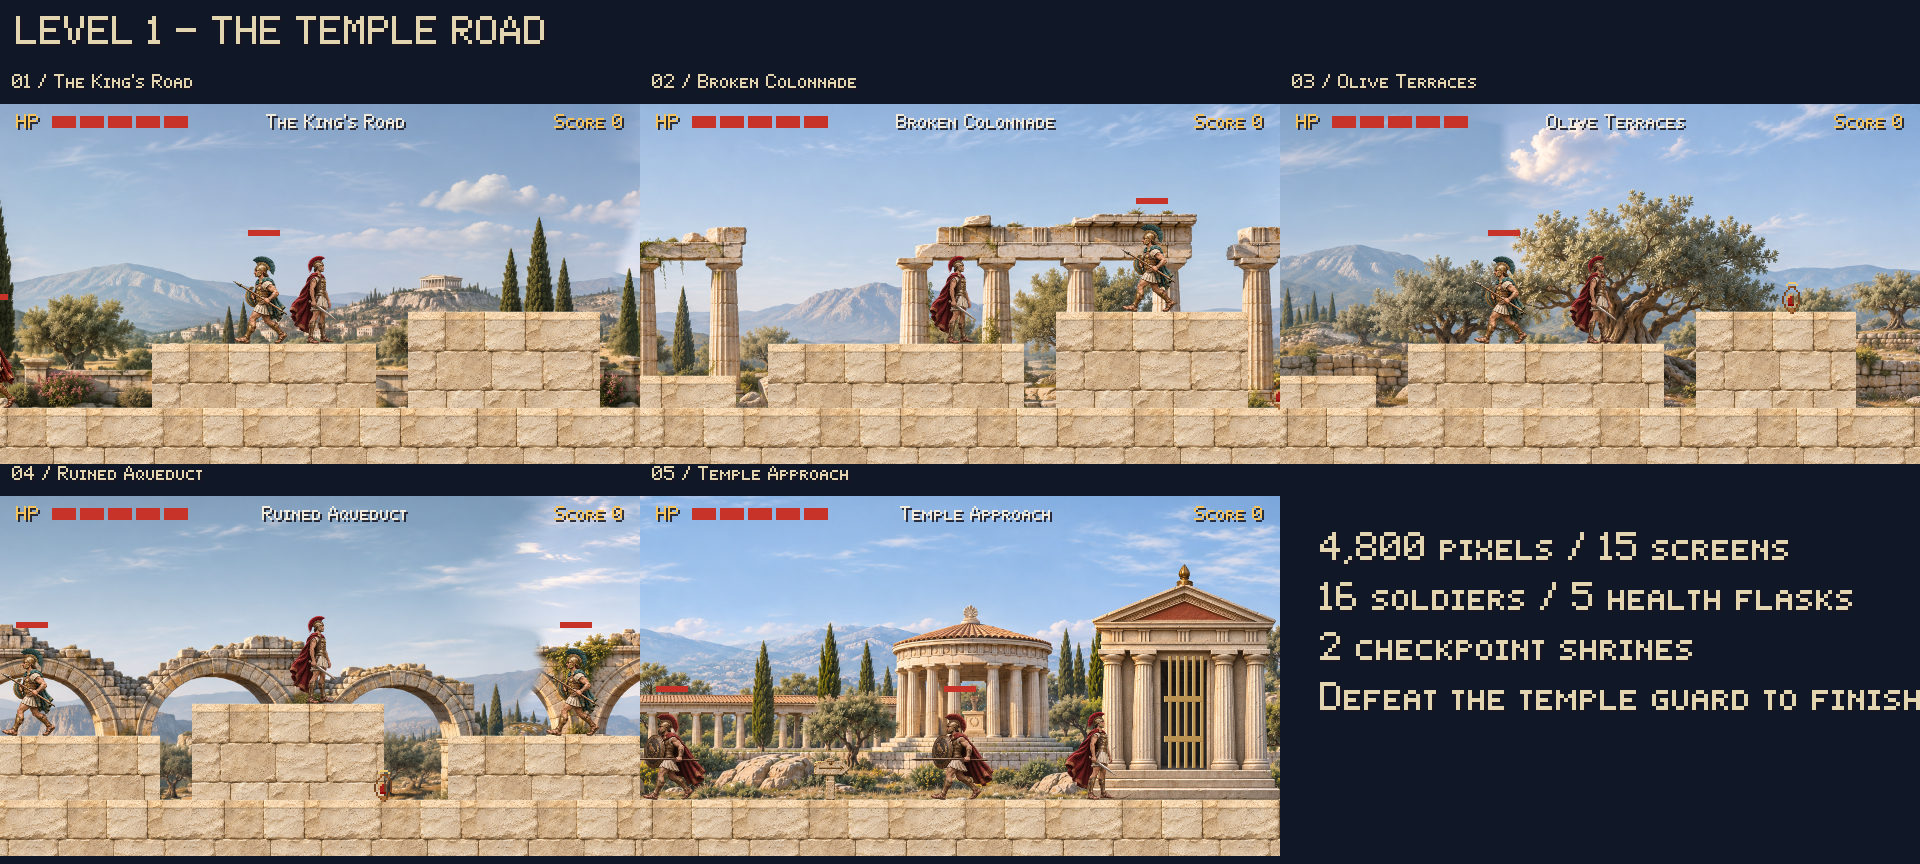
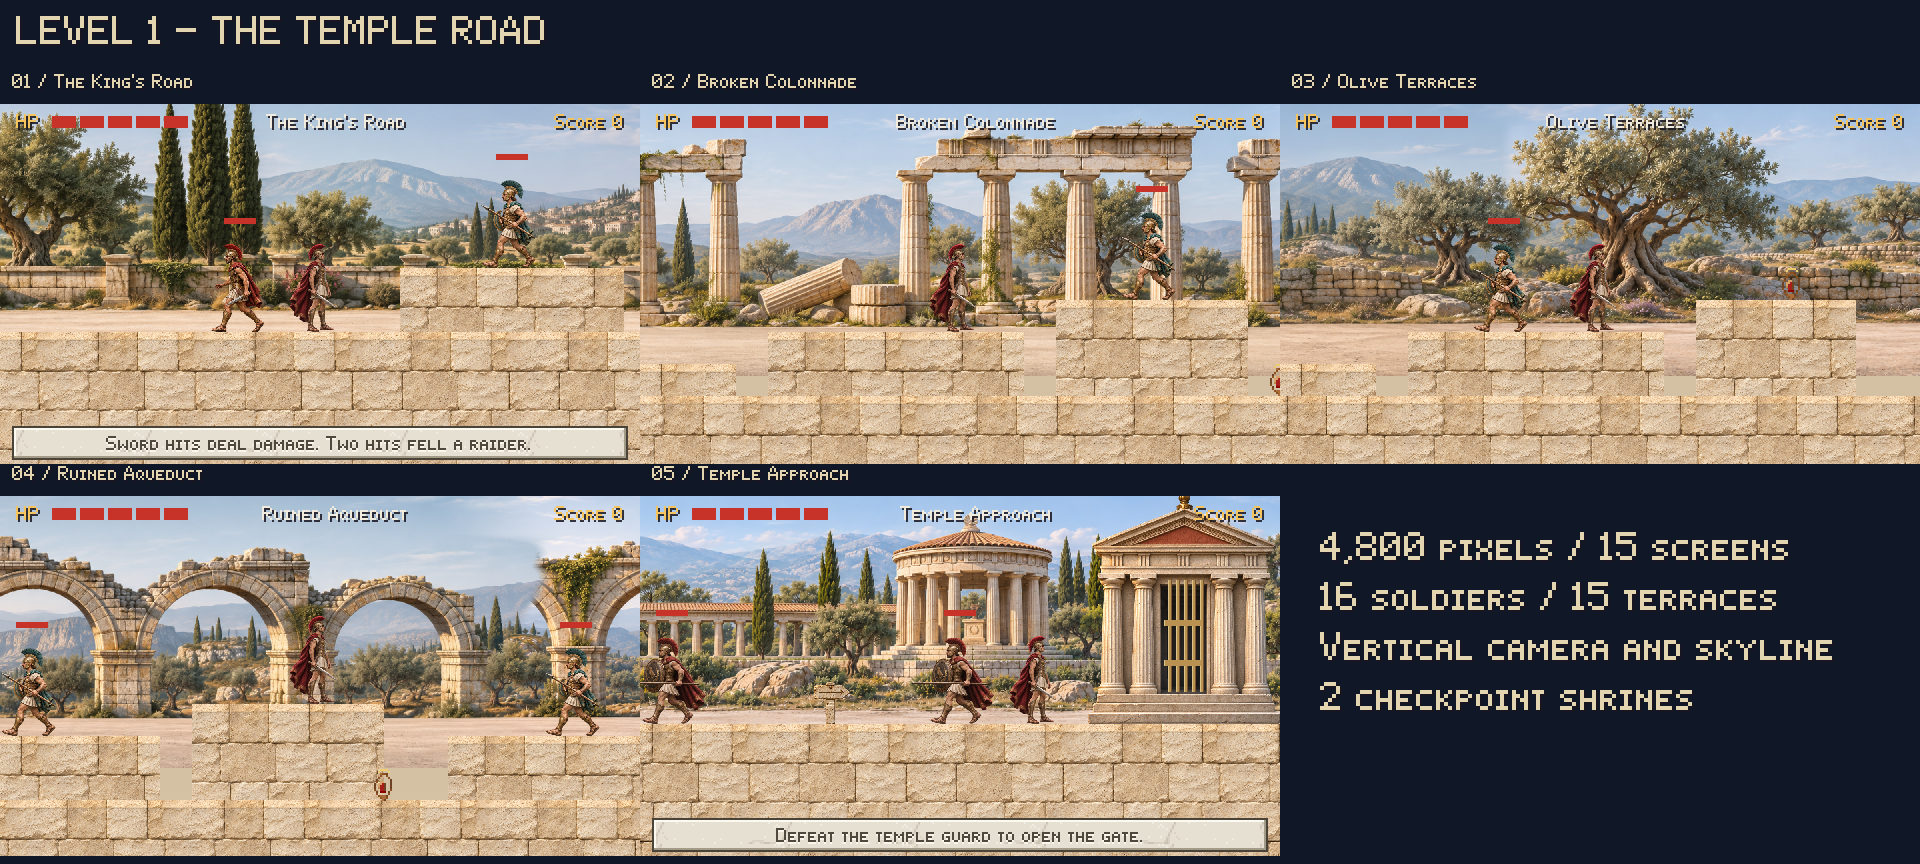
Implement vertical camera and skyline movement to level 1

diff --git a/docs/level_1.md b/docs/level_1.md
@@ -14,7 +14,14 @@ colonnades, aqueduct arches, and sanctuary architecture. The panels blend at
 their edges and preserve their natural proportions. Detailed masonry textures
 cover the original walkable surfaces; carved waystones and a matching temple
 facade complete the scenery. These are pre-rendered backgrounds in the existing
-2D game, with the same collision rectangles, camera limits, and encounter layout.
+2D game, with the same collision rectangles and encounter layout.
+
+For playtesting, Level 1 now uses the later levels' camera-aware skyline effect.
+Its visual bounds are 4,800×256, with the camera looking 24 pixels above Theseus
+and following his climbs and descents. The background follows a smoothed nearby
+terrain height, giving it relative movement against the foreground. Sky and road
+continuation fill the newly revealed view. Platforms, ground collision, movement,
+enemy positions, and checkpoint spawns are unchanged.
 
 Panorama joins follow matching scenery within their 96-pixel overlap. Smooth
 sky fades broadly; detailed stone and foliage use a narrow transition, avoiding
@@ -122,6 +129,8 @@ physics-driven traversal of the full route. Enemies are held still for that
 traversal so it tests geometry independently of combat skill. Combat difficulty
 and first-clear pacing still need human playtesting.
 
-The scenery check verifies full-route background coverage, panel proportions,
-unchanged terrace collisions, the open facade during paused temple entry, and
-renderer isolation from Levels 2–5, which also have their own scenery checks.
+The scenery check verifies vertical camera and skyline movement, background
+coverage through climbs and jumps, panel proportions, unchanged ground and
+terrace collisions, the open facade during paused temple entry, and camera and
+renderer isolation from Levels 2–5. The route test also checks vertical camera
+travel during actual movement and jumping.
